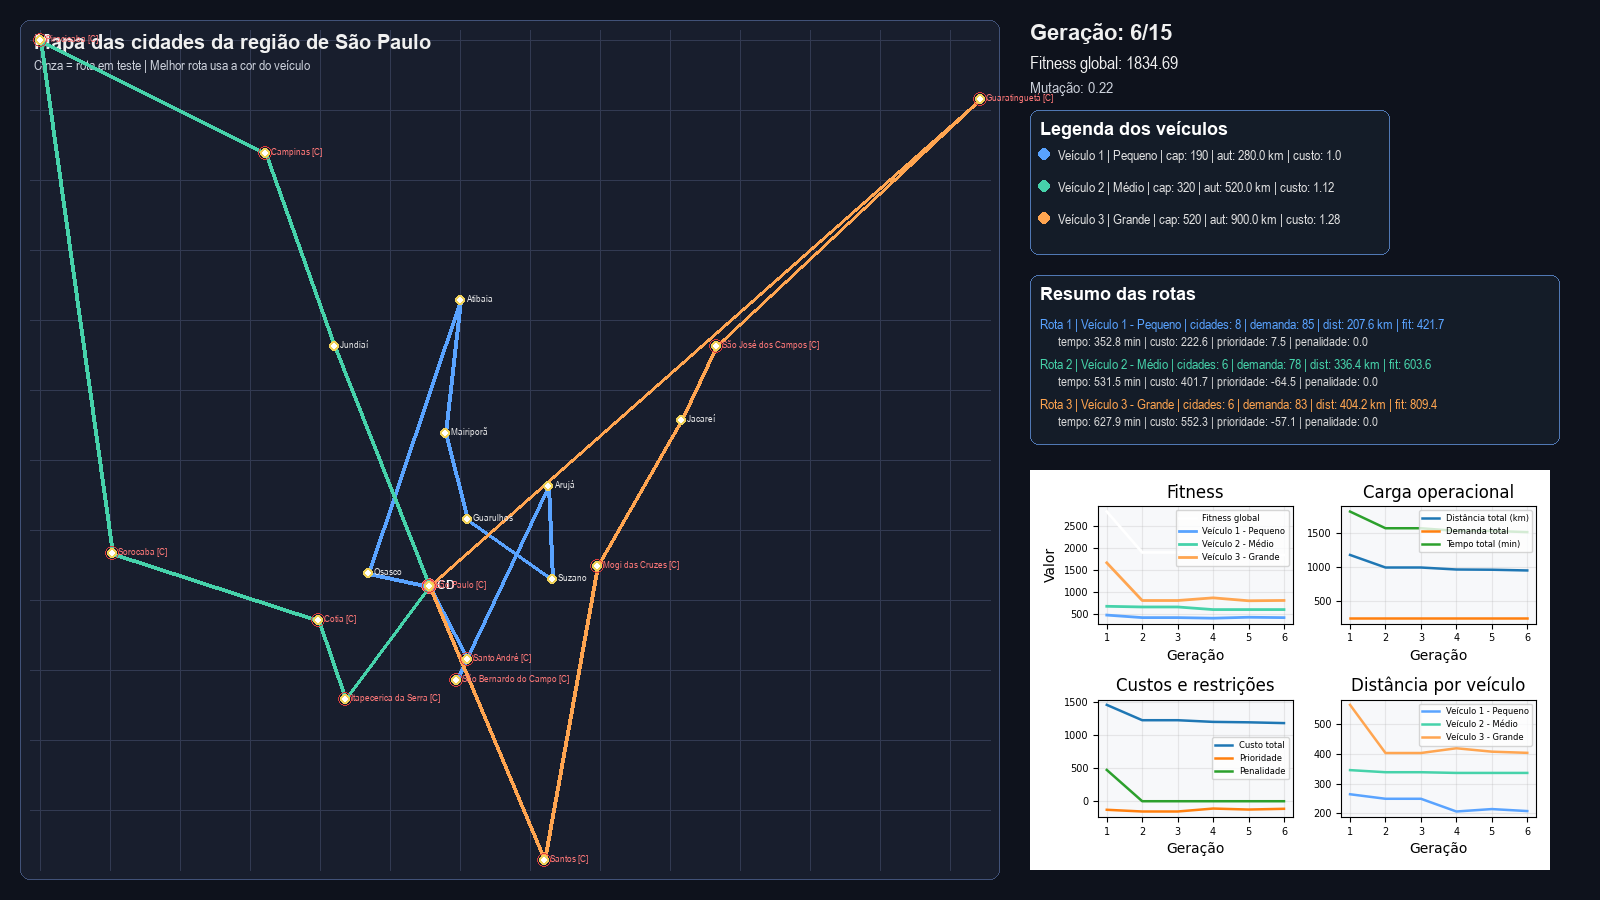
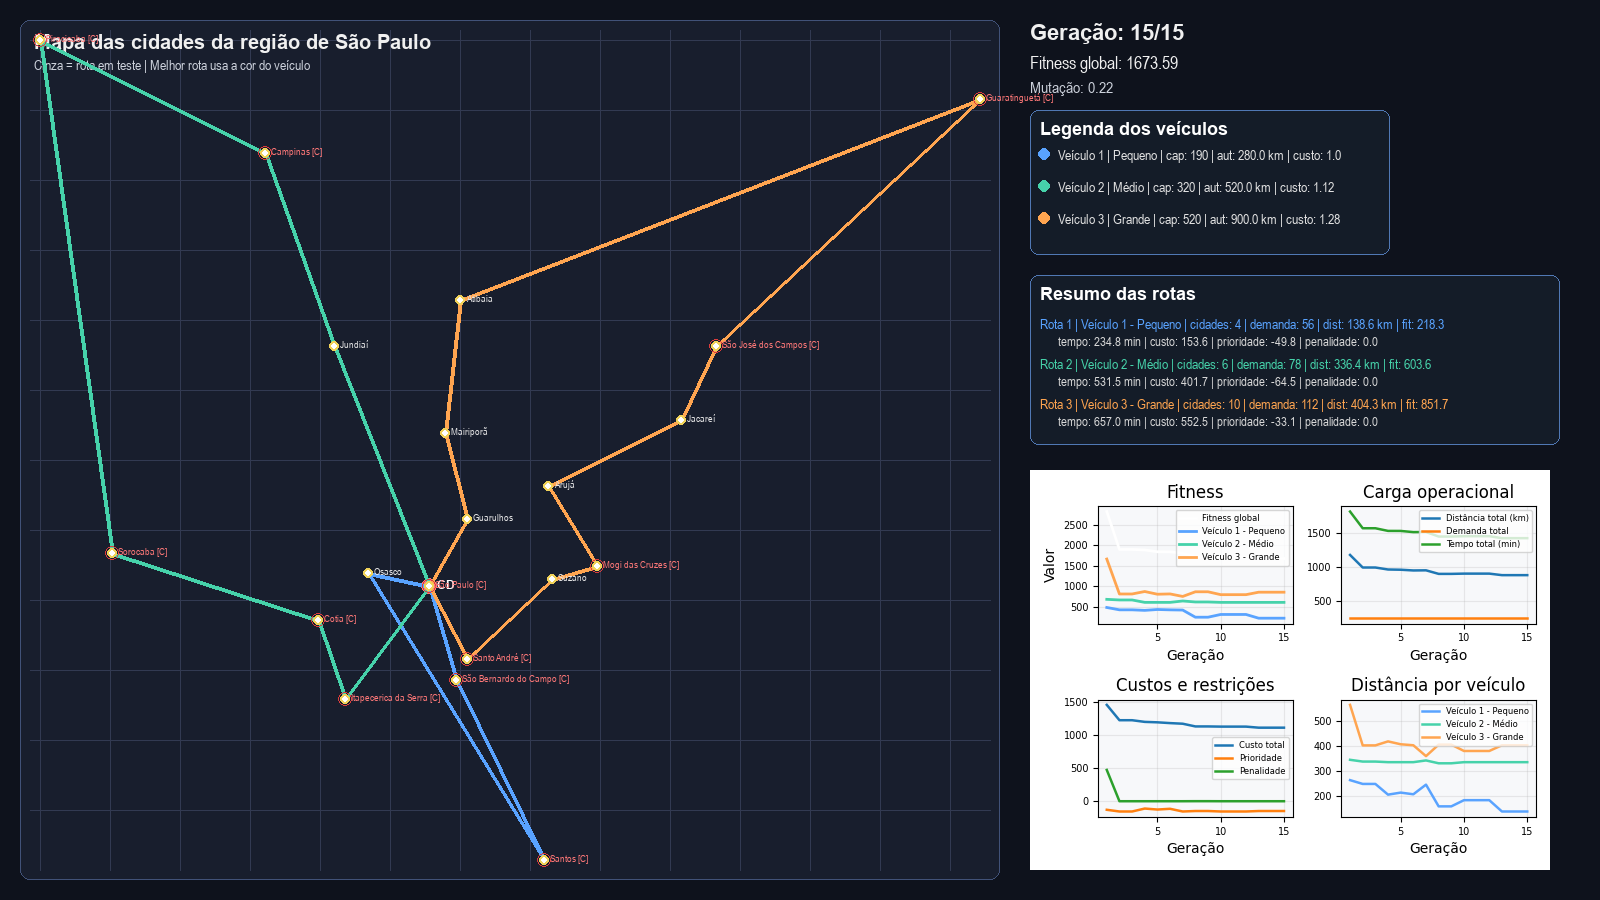
Ajuste Readme

diff --git a/README.md b/README.md
@@ -431,6 +431,12 @@ Ao final da execução, o projeto pode gerar:
 A interface web consulta o histórico salvo e permite perguntas em linguagem natural.
 
 ```bash
+python -m streamlit run app_streamlit.py
+```
+
+Opcionalmente, também funciona com:
+
+```bash
 streamlit run app_streamlit.py
 ```
 